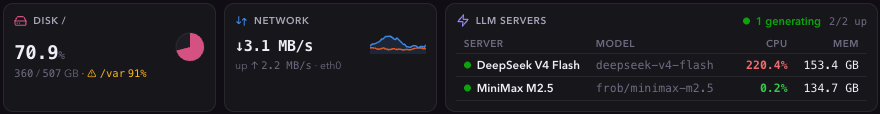
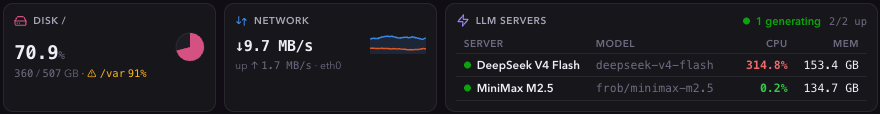
Draw temperature as a second line on the CPU sparkline
History points carry cpu.tempC through the server ring buffer, both
client append paths, and the demo seeder. The tile adds an amber
--temp series (carry-forward over null gaps) beside the violet CPU
line; sensorless hosts render the CPU line alone.

Changed region(s): [[0.3989, 0.3158, 0.4909, 0.4474], [0.8284, 0.5263, 0.8898, 0.6053], [0.2761, 0.3421, 0.3068, 0.4474]]

diff --git a/web/src/components/cards.tsx b/web/src/components/cards.tsx
@@ -64,6 +64,16 @@ export function CpuTile({
   system,
 }: CardBase & TileData & { system: SystemInfo | null }) {
   const { cpu } = snapshot;
+  let lastTemp = cpu.tempC ?? 0;
+  const tempSeries =
+    cpu.tempC === null
+      ? []
+      : [
+          {
+            values: history.slice(-30).map(h => (lastTemp = h.temp ?? lastTemp)),
+            color: 'var(--temp)',
+          },
+        ];
   return (
     <Tile
       className={className}
@@ -93,7 +103,7 @@ export function CpuTile({
           )}
         </>
       }
-      series={[{ values: spark(history, h => h.cpu), color: 'var(--cpu)' }]}
+      series={[{ values: spark(history, h => h.cpu), color: 'var(--cpu)' }, ...tempSeries]}
     />
   );
 }

diff --git a/web/src/hooks/useLive.ts b/web/src/hooks/useLive.ts
@@ -70,6 +70,7 @@ export function useLive(onAuthFailed: () => void): LiveState {
             mem: (m.mem.used / m.mem.total) * 100,
             rx: m.net[0].rxSec,
             tx: m.net[0].txSec,
+            temp: m.cpu.tempC,
           }].slice(-HISTORY_LEN),
         );
       };
@@ -108,6 +109,7 @@ export function useLive(onAuthFailed: () => void): LiveState {
         mem: m.mem.total ? (m.mem.used / m.mem.total) * 100 : 0,
         rx: primary?.rxSec ?? 0,
         tx: primary?.txSec ?? 0,
+        temp: m.cpu.tempC,
       };
       setHistory(h =>
         h.length && point.ts <= h[h.length - 1].ts ? h : [...h, point].slice(-HISTORY_LEN),

diff --git a/web/src/styles.css b/web/src/styles.css
@@ -22,6 +22,7 @@
   --disk: #c8497f;
   --net-rx: #2a78d6;
   --net-tx: #eb6834;
+  --temp: #b8770a;
   /* Agent brand colors — theme-invariant, used for the session card icons */
   --claude: #d97757;
   --codex: #10a37f;
@@ -58,6 +59,7 @@
     --disk: #d55181;
     --net-rx: #3987e5;
     --net-tx: #d95926;
+    --temp: #e8a33d;
     --load-low: #35c948;
     --load-mid: #fab219;
     --load-high: #ef6b6b;
@@ -85,6 +87,7 @@
   --disk: #d55181;
   --net-rx: #3987e5;
   --net-tx: #d95926;
+  --temp: #e8a33d;
   --load-low: #35c948;
   --load-mid: #fab219;
   --load-high: #ef6b6b;

diff --git a/shared/types.ts b/shared/types.ts
@@ -69,6 +69,8 @@ export interface HistoryPoint {
   /** Default-interface rates, bytes per second */
   rx: number;
   tx: number;
+  /** CPU temperature °C (absent/null when no sensor) */
+  temp?: number | null;
 }
 
 export interface ProcessInfo {

diff --git a/server/src/index.ts b/server/src/index.ts
@@ -38,6 +38,7 @@ async function main(): Promise<void> {
       mem: m.mem.total ? Math.round((m.mem.used / m.mem.total) * 1000) / 10 : 0,
       rx: primary?.rxSec ?? 0,
       tx: primary?.txSec ?? 0,
+      temp: m.cpu.tempC,
     });
   });
 

diff --git a/web/src/lib/demo.ts b/web/src/lib/demo.ts
@@ -180,6 +180,7 @@ export function createDemo(): Demo {
           mem: (m.mem.used / m.mem.total) * 100,
           rx: m.net[0].rxSec,
           tx: m.net[0].txSec,
+          temp: m.cpu.tempC,
         });
       }
       return points;
